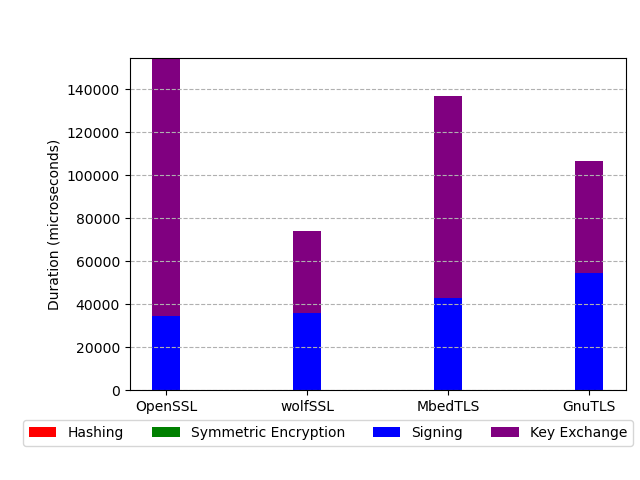
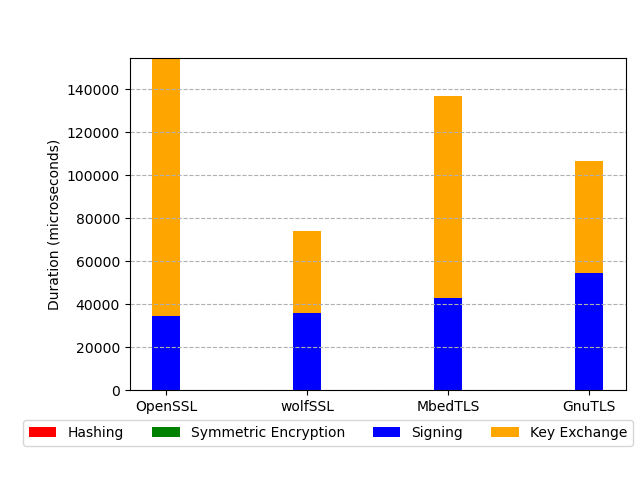
fdh

diff --git a/plots/time_ffdh2048_rsa3072_aes128gcm_sha256.py b/plots/time_ffdh2048_rsa3072_aes128gcm_sha256.py
@@ -41,7 +41,7 @@ width = 0.2  # the width of the bars
 
 fig, ax = plt.subplots(layout='constrained')
 bottom = np.zeros(4)
-colors = ['red', 'green', 'blue', 'purple']
+colors = ['red', 'green', 'blue', 'orange']
 i = 0
 for boolean, dur in durs.items():
     p = ax.bar(libs, dur, width, label=boolean, bottom=bottom, color=colors[i])

diff --git a/plots/time_invall.py b/plots/time_invall.py
@@ -31,7 +31,7 @@ x = np.arange(len(libs))  # the label locations
 width = 0.2  # the width of the bars
 mul = 0
 
-colors = ['blue', 'purple', 'green','red']
+colors = ['blue', 'orange', 'green','red']
 i = 0
 fig, ax = plt.subplots(layout='constrained')
 for lib, dur in durs.items():
